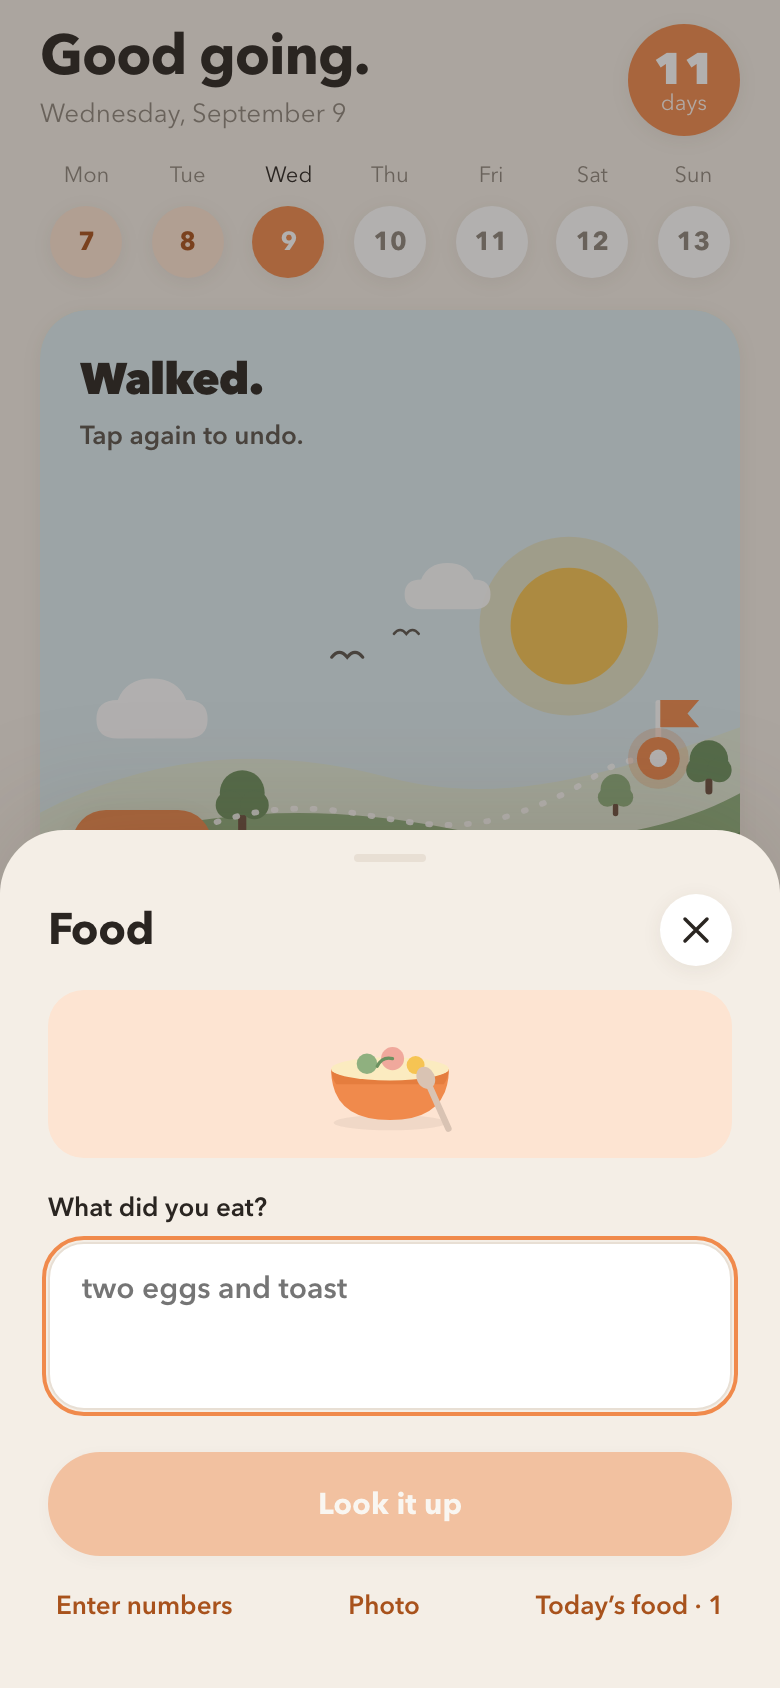
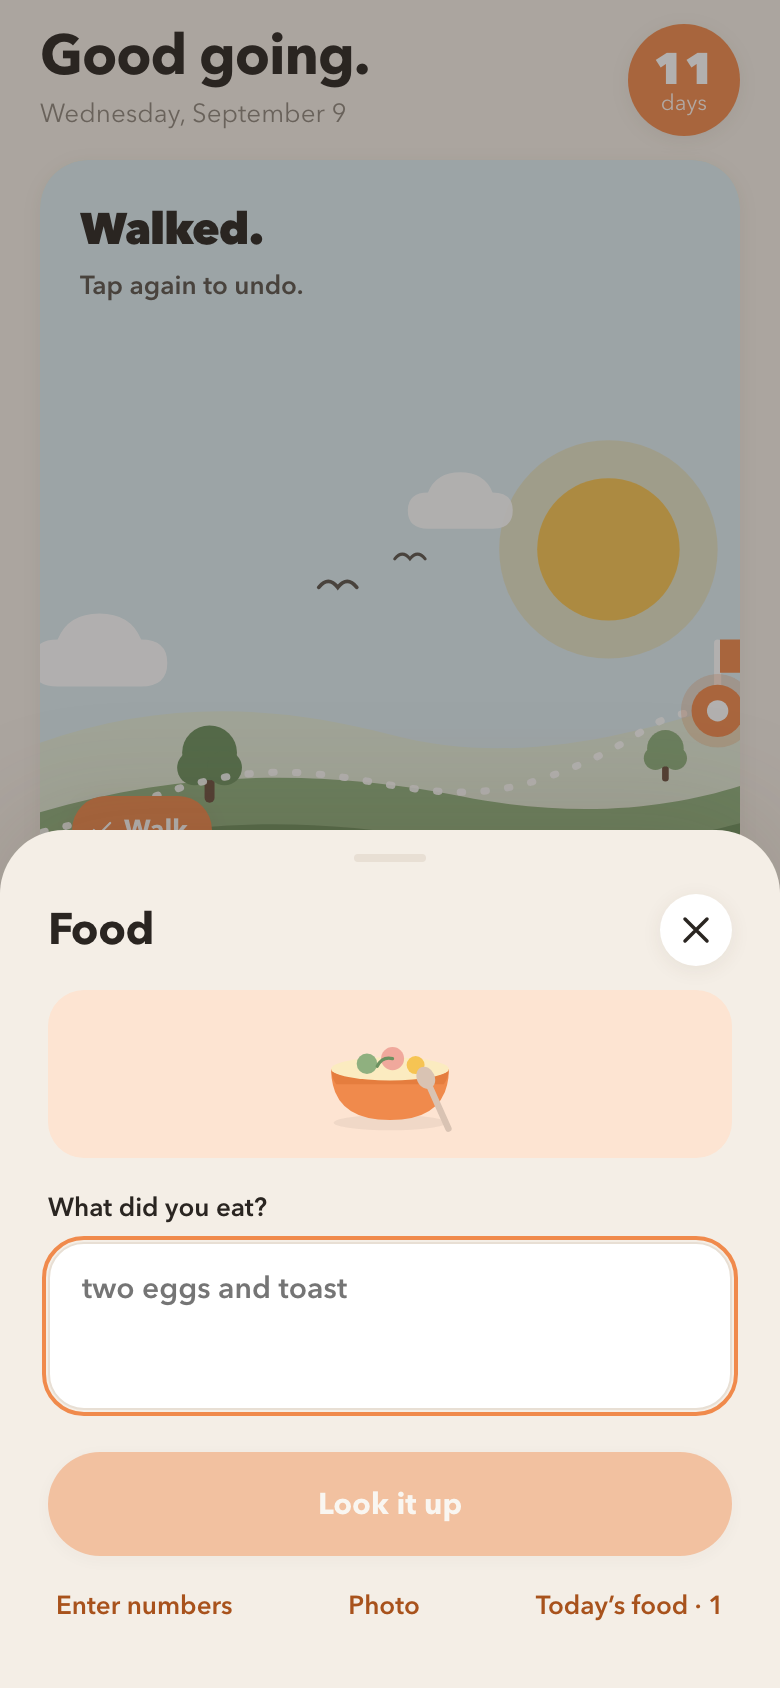
Remove the week strip from Today; backfill stays reachable from Progress
The hero grows into the space. The browser check now opens a past day
from Progress, checks a habit and comes back to today. Records updated.

Claude-Session: https://claude.ai/code/session_012eUTZr7PRm5q6EK1oDXvWv

diff --git a/app/tokens.css b/app/tokens.css
@@ -1,1 +1,1 @@
-:root{--c-ground:#f4eee6;--c-ground2:#ede5db;--c-card:#ffffff;--c-cardTint:#fbf7f2;--c-line:#e8dfd4;--c-ink:#2a2521;--c-ink2:#5b544d;--c-muted:#8d857b;--c-accent:#f08a4c;--c-accentDeep:#d9702f;--c-accentSoft:#fde4d2;--c-accentInk:#a8521c;--c-sage:#8fb07f;--c-sageDeep:#6c9160;--c-sageSoft:#e3ecd9;--c-sky:#8ec5d6;--c-skySoft:#dcecf1;--c-skyDeep:#5e9fb4;--c-butter:#f6c453;--c-butterSoft:#fbebc0;--c-rose:#f0a89c;--c-roseSoft:#f9e0da;--c-lilac:#b9aee0;--c-lilacSoft:#e9e4f4;--c-cocoa:#6b4f3f;--c-cocoaSoft:#d9c3b3;--c-night:#2f3550;--c-nightSoft:#8a90b3;--c-shadow:rgba(84,60,36,.08);--c-shadowDeep:rgba(84,60,36,.16);--c-scrim:rgba(42,37,33,.36);--r-sm:12px;--r-md:18px;--r-lg:24px;--r-xl:32px;--r-pill:999px;--s-0:0px;--s-1:4px;--s-2:8px;--s-3:12px;--s-4:16px;--s-5:20px;--s-6:24px;--s-7:32px;--s-8:40px;--s-9:56px;--t-xs:11px;--t-sm:13px;--t-md:15px;--t-lg:17px;--t-xl:22px;--t-xxl:28px;--t-hero:64px;--ls-tight:-.03em;--ls-snug:-.02em;--ls-normal:-.01em;--sh-card:0 2px 10px rgba(84,60,36,.08);--sh-float:0 10px 28px rgba(84,60,36,.16);--sh-sheet:0 -8px 60px rgba(84,60,36,.16);--z-hairline:1px;--z-bw:2px;--z-ring:3px;--z-dot:6px;--z-meter:8px;--z-handle:36px;--z-icon:22px;--z-minus:32px;--z-cell:36px;--z-tap:44px;--z-disc:56px;--z-add:56px;--z-tile:64px;--z-nav:64px;--z-glass:76px;--z-bowl:84px;--z-bars:112px;--z-pair:184px;--z-hero:300px;--z-heroShort:200px;--z-spark:100px;--z-preview:50dvh;--z-shell:440px;--z-shellMax:960px;--z-sheet:90dvh;--font:ui-rounded,'SF Pro Rounded','Avenir Next','Nunito','Segoe UI',system-ui,sans-serif}
+:root{--c-ground:#f4eee6;--c-ground2:#ede5db;--c-card:#ffffff;--c-cardTint:#fbf7f2;--c-line:#e8dfd4;--c-ink:#2a2521;--c-ink2:#5b544d;--c-muted:#8d857b;--c-accent:#f08a4c;--c-accentDeep:#d9702f;--c-accentSoft:#fde4d2;--c-accentInk:#a8521c;--c-sage:#8fb07f;--c-sageDeep:#6c9160;--c-sageSoft:#e3ecd9;--c-sky:#8ec5d6;--c-skySoft:#dcecf1;--c-skyDeep:#5e9fb4;--c-butter:#f6c453;--c-butterSoft:#fbebc0;--c-rose:#f0a89c;--c-roseSoft:#f9e0da;--c-lilac:#b9aee0;--c-lilacSoft:#e9e4f4;--c-cocoa:#6b4f3f;--c-cocoaSoft:#d9c3b3;--c-night:#2f3550;--c-nightSoft:#8a90b3;--c-shadow:rgba(84,60,36,.08);--c-shadowDeep:rgba(84,60,36,.16);--c-scrim:rgba(42,37,33,.36);--r-sm:12px;--r-md:18px;--r-lg:24px;--r-xl:32px;--r-pill:999px;--s-0:0px;--s-1:4px;--s-2:8px;--s-3:12px;--s-4:16px;--s-5:20px;--s-6:24px;--s-7:32px;--s-8:40px;--s-9:56px;--t-xs:11px;--t-sm:13px;--t-md:15px;--t-lg:17px;--t-xl:22px;--t-xxl:28px;--t-hero:64px;--ls-tight:-.03em;--ls-snug:-.02em;--ls-normal:-.01em;--sh-card:0 2px 10px rgba(84,60,36,.08);--sh-float:0 10px 28px rgba(84,60,36,.16);--sh-sheet:0 -8px 60px rgba(84,60,36,.16);--z-hairline:1px;--z-bw:2px;--z-ring:3px;--z-dot:6px;--z-meter:8px;--z-handle:36px;--z-icon:22px;--z-minus:32px;--z-cell:36px;--z-tap:44px;--z-disc:56px;--z-add:56px;--z-tile:64px;--z-nav:64px;--z-glass:76px;--z-bowl:84px;--z-bars:112px;--z-pair:184px;--z-hero:368px;--z-heroShort:200px;--z-spark:100px;--z-preview:50dvh;--z-shell:440px;--z-shellMax:960px;--z-sheet:90dvh;--font:ui-rounded,'SF Pro Rounded','Avenir Next','Nunito','Segoe UI',system-ui,sans-serif}

diff --git a/app/globals.css b/app/globals.css
@@ -10,7 +10,6 @@ h1,h2,h3,p{margin:0}h1{font-size:var(--t-xxl);font-weight:700;line-height:1.1;le
 .streak-badge{display:flex;flex-direction:column;align-items:center;justify-content:center;width:var(--z-disc);height:var(--z-disc);border-radius:50%;background:var(--c-accent);color:var(--c-card);line-height:1;flex-shrink:0;box-shadow:var(--sh-card)}.streak-badge strong{font-size:var(--t-xl);font-weight:800}.streak-badge span{font-size:var(--t-xs);opacity:.9}
 .zone-row{display:flex;align-items:center;justify-content:space-between;background:var(--c-accentSoft);color:var(--c-accentInk);padding:var(--s-2) var(--s-3);font-size:var(--t-sm);border-radius:var(--r-sm);flex-shrink:0;margin-top:var(--s-2)}
 .today-view{min-height:0;flex:1;display:flex;flex-direction:column;gap:var(--s-4);padding-top:var(--s-3)}
-.week-strip{display:grid;grid-template-columns:repeat(7,minmax(0,1fr));gap:var(--s-1);flex-shrink:0}.week-strip .day{display:flex;flex-direction:column;align-items:center;gap:var(--s-2);font-size:var(--t-xs);color:var(--c-muted)}.week-strip .day strong{display:grid;place-items:center;width:var(--z-cell);height:var(--z-cell);border-radius:50%;background:var(--c-card);color:var(--c-ink);font-size:var(--t-sm);font-weight:700;box-shadow:var(--sh-card);transition:background .25s,color .25s}.week-strip .day.is-kept strong{background:var(--c-accentSoft);color:var(--c-accentInk)}.week-strip .day.is-active strong{background:var(--c-accent);color:var(--c-card)}.week-strip .day.is-active{color:var(--c-ink)}.week-strip .day:disabled{opacity:1}.week-strip .day:disabled strong{color:var(--c-muted)}
 .hero{position:relative;flex:1;min-height:var(--z-heroShort);max-height:var(--z-hero);border-radius:var(--r-lg);overflow:hidden;text-align:left;box-shadow:var(--sh-card);background:var(--c-butterSoft);flex-shrink:1}.hero .scene{position:absolute;inset:0;width:100%;height:100%}
 .hero-copy{position:absolute;left:var(--s-5);top:var(--s-5);right:var(--s-5);display:flex;flex-direction:column;gap:var(--s-1);color:var(--c-ink)}.hero-copy strong{font-size:var(--t-xl);font-weight:800;letter-spacing:var(--ls-snug)}.hero-copy span{font-size:var(--t-sm);font-weight:600;color:var(--c-ink2)}.hero.is-complete .hero-copy strong{font-size:var(--t-xxl)}
 .hero-tag{position:absolute;left:var(--s-4);bottom:var(--s-4);display:inline-flex;align-items:center;gap:var(--s-1);background:var(--c-card);color:var(--c-ink);border-radius:var(--r-pill);padding:var(--s-2) var(--s-3) var(--s-2) var(--s-2);font-size:var(--t-sm);font-weight:700;box-shadow:var(--sh-card)}.hero-tag .mark{width:var(--s-5);height:var(--s-5)}.hero.is-done .hero-tag{background:var(--c-accent);color:var(--c-card)}

diff --git a/components/App.tsx b/components/App.tsx
@@ -39,13 +39,11 @@ export default function App(){
  const yesterday=state.days[addDays(today,-1)];const stumbled=!selected&&count===0&&!!yesterday&&!isKept(yesterday)&&addDays(today,-1)>=profile.startDay;
  const complete=count===habits.length;
  const headline=selected?'Past day':day.rest?'Rest day.':complete?'Every one.':count>=5?'Nearly there.':count>0?'Good going.':stumbled?'A new day.':morning?'Good morning.':hour<17?'Good afternoon.':'Good evening.';
- const week=Array.from({length:7},(_,i)=>addDays(weekStart(dayKey),i));
  const rests=restsLeft(state,dayKey);
  return <main className="app-shell">
   <header className="topbar"><div className="topbar-copy"><h1>{tab==='today'?headline:tab==='week'?'Progress':tab==='trends'?'Trends':'You'}</h1><p className="date">{tab==='week'?`Since ${new Intl.DateTimeFormat('en',{month:'long',day:'numeric',timeZone:'UTC'}).format(new Date(profile.startDay+'T12:00:00Z'))}`:dateLabel}</p></div>{showWeight&&<button className="chip" onClick={()=>setModal('weight')}><Mark name="scale"/>Weigh in</button>}{tab!=='week'&&<button className="streak-badge" onClick={()=>setTab('week')} aria-label={`${streak.current} day streak`}><strong>{streak.current}</strong><span>day{streak.current===1?'':'s'}</span></button>}</header>
   {state.clock&&state.clock.zone!==todayZone()&&<button className="zone-row" onClick={()=>setModal('zone')}>Your timezone changed. Keep your day in step<Icon name="arrow" size={16}/></button>}
   {tab==='today'?<section className="today-view">
-   <div className="week-strip" role="group" aria-label="This week">{week.map((d,i)=>{const kept=isKept(state.days[d]);const future=d>today;return <button key={d} disabled={future} className={`day ${d===dayKey?'is-active':''} ${kept?'is-kept':''}`} aria-pressed={d===dayKey} aria-label={`${weekdays[i]} ${Number(d.slice(-2))}${kept?', kept':''}`} onClick={()=>setSelected(d===today?null:d)}><span>{weekdays[i]}</span><strong>{Number(d.slice(-2))}</strong></button>;})}</div>
    <button className={`hero ${done.walk?'is-done':''} ${pulse.walk?'moving':''} ${complete?'is-complete':''}`} aria-label="Walk" aria-pressed={done.walk} onClick={()=>toggle('walk')}>
     <Hills phase={day.rest?'night':phase} walked={done.walk} celebrate={complete&&!selected}/>
     <span className="hero-copy"><strong>{complete&&!selected?'Every one.':day.rest?'Resting today.':done.walk?'Walked.':'A walk today.'}</strong><span>{complete&&!selected?`All ${habits.length} habits, all done.`:day.rest?'The streak stays.':done.walk?'Tap again to undo.':'Tap when you’re back.'}</span></span>

diff --git a/tests/e2e/v3.spec.ts b/tests/e2e/v3.spec.ts
@@ -33,11 +33,10 @@ test('nothing transient appears and nothing shifts on a habit tap, a pour, a mea
  expect(churn.removed.filter(n=>!n.startsWith('DIALOG')),JSON.stringify(churn)).toEqual([]);
  await writeFile(`evidence/v3/transient-check-${test.info().project.name}.json`,JSON.stringify({rectsUnchanged:true,statusOrAlertNodes:0,addedOutsideHeroAndSheet:churn.added,removedOutsideHeroAndSheet:churn.removed},null,2));
 });
-test('the week strip opens a past day for backfill and comes back to today',async({page})=>{
- await open(page,seed(10));const today=localDate(new Date(),'America/Los_Angeles');const yesterday=addDays(today,-1);
- const strip=page.getByRole('group',{name:'This week'});
- const target=strip.getByRole('button',{pressed:false}).filter({hasNot:page.locator('[disabled]')}).first();
- if(await strip.getByRole('button',{pressed:false}).filter({hasText:String(Number(yesterday.slice(-2)))}).count()){await strip.getByRole('button',{pressed:false}).filter({hasText:String(Number(yesterday.slice(-2)))}).first().click();}else await target.click();
+test('backfill is reachable from Progress: pick a past day, open it, check a habit, come back to today',async({page})=>{
+ await open(page,seed(10));const today=localDate(new Date(),'America/Los_Angeles');const past=addDays(today,-3);
+ await expect(page.getByRole('group',{name:'This week'})).toHaveCount(0);
+ await page.getByRole('button',{name:'Progress',exact:true}).click();await page.getByLabel('Open any past day').fill(past);await page.getByRole('button',{name:'Backfill this day'}).click();
  await expect(page.getByRole('heading',{name:'Past day'})).toBeVisible();await expect(page.getByRole('button',{name:'Back to today'})).toBeVisible();
  await page.getByRole('button',{name:'Workout',exact:true}).click();await expect(page.getByRole('button',{name:'Workout',exact:true})).toHaveAttribute('aria-pressed','true');
  await page.getByRole('button',{name:'Back to today'}).click();await expect(page.getByRole('heading',{name:'Past day'})).toHaveCount(0);await expect(page.getByRole('button',{name:'Workout',exact:true})).toHaveAttribute('aria-pressed','false');

diff --git a/lib/tokens.ts b/lib/tokens.ts
@@ -19,7 +19,7 @@ export const text={xs:'11px',sm:'13px',md:'15px',lg:'17px',xl:'22px',xxl:'28px',
 export const track={tight:'-.03em',snug:'-.02em',normal:'-.01em'} as const;
 export const shadow={card:`0 2px 10px ${color.shadow}`,float:`0 10px 28px ${color.shadowDeep}`,sheet:`0 -8px 60px ${color.shadowDeep}`} as const;
 export const font={sans:"ui-rounded,'SF Pro Rounded','Avenir Next','Nunito','Segoe UI',system-ui,sans-serif"} as const;
-export const size={hairline:'1px',bw:'2px',ring:'3px',dot:'6px',meter:'8px',handle:'36px',icon:'22px',minus:'32px',cell:'36px',tap:'44px',disc:'56px',add:'56px',tile:'64px',nav:'64px',glass:'76px',bowl:'84px',bars:'112px',pair:'184px',hero:'300px',heroShort:'200px',spark:'100px',preview:'50dvh',shell:'440px',shellMax:'960px',sheet:'90dvh'} as const;
+export const size={hairline:'1px',bw:'2px',ring:'3px',dot:'6px',meter:'8px',handle:'36px',icon:'22px',minus:'32px',cell:'36px',tap:'44px',disc:'56px',add:'56px',tile:'64px',nav:'64px',glass:'76px',bowl:'84px',bars:'112px',pair:'184px',hero:'368px',heroShort:'200px',spark:'100px',preview:'50dvh',shell:'440px',shellMax:'960px',sheet:'90dvh'} as const;
 export function cssVariables(){
  const lines:string[]=[];
  for(const [k,v] of Object.entries(color))lines.push(`--c-${k}:${v}`);

diff --git a/public/sw.js b/public/sw.js
@@ -1,4 +1,4 @@
-const VERSION='flaccid75-shell-6887c0a08b40';
+const VERSION='flaccid75-shell-3651f573f280';
 self.addEventListener('install',event=>{event.waitUntil(caches.open(VERSION).then(async cache=>{await cache.addAll(['/','/manifest.webmanifest','/icon-192.png','/icon-512.png','/apple-touch-icon.png','/icon.svg','/icon-maskable.png','/splash-1170x2532.png']);const response=await cache.match('/');const html=await response.text();const assets=[...new Set([...html.matchAll(/(?:src|href)="([^" ]+\.(?:js|css)(?:\?[^" ]*)?)"/g)].map(m=>m[1]))].filter(x=>x.startsWith('/assets/'));await cache.addAll(assets);}));});
 self.addEventListener('activate',event=>{event.waitUntil((async()=>{for(const key of await caches.keys())if(key.startsWith('flaccid75-')&&key!==VERSION)await caches.delete(key);await self.clients.claim();})());});
 self.addEventListener('fetch',event=>{const request=event.request;const url=new URL(request.url);if(request.method!=='GET'||url.origin!==self.location.origin||url.pathname.startsWith('/api/'))return;

diff --git a/evidence/LEDGER.md b/evidence/LEDGER.md
@@ -12,7 +12,7 @@ Goal: `flaccid75-v3-rebrand.txt`. Acceptance for this version: [ACCEPTANCE-V3.md
 | One accent: apricot `#f08a4c`, between reference A's mustard and reference B's coral. Sage is the secondary. Everything else is cream, white and warm greys. | One strong accent used sparingly is the shared trait of both references. Apricot reads warm against both mustard and coral without copying either. |
 | Tokens live in `lib/tokens.ts`; `app/tokens.css` is generated from it and `scripts/token-scan.mjs` fails on any hex, rgb or px value outside the token files. Exempt by design and named in the scanner: SVG geometry in `components/Scenes.tsx` and `components/Icon.tsx`, `@keyframes` bodies (motion distances) and `@media` preludes (breakpoints). | "No one-off colors" has to be provable, not asserted. The exemptions are geometry and motion, not design values. |
 | The hero scene is also the walk. The marker slides along the dotted path to the flag when the walk is done. When all seven habits are done the same scene becomes the celebration: sun rays and falling petals, "Every one." in the card. | The reference homes lead with one large illustrated card. Making it the walk keeps the gamification without a second track element, and making it the celebration removes the only remaining overlay. |
-| The week strip returns to Today as a filled-circle strip. Tapping a past day selects it for backfill; tapping today comes back. | Version 2 removed a decorative week strip. Reference A's week strip is the signature of its home screen, and this one carries meaning: kept days are tinted sage, the active day is the accent circle, and it replaces the old "Back to today" flow. |
+| The week strip is not on Today. Michael asked for its removal after the rounds; backfill stays reachable from Progress (pick a day, "Backfill this day"), and the hero grows into the space. | Version 2 removed a week strip from Today and the owner confirmed that decision for version 3. The blind rounds that included the strip are recorded as judged; the deployed screen after this change was not re-judged. |
 | Workout, abs, floss and rest are round icon chips with labels, in the manner of reference B's chip row. Rest is the fourth chip: it opens the confirmation sheet and shows "Resting" when used. | Four chips fit one row and read at a glance. The old footer line for rest is gone. |
 | Water has a small minus in the card's corner: one tap removes 250 ml, no dialog, disabled at zero. | Defect fix from the goal. |
 | Every toast, undo popup and sync notice is gone. Storage or sync problems show as a persistent line at the top of the You screen. Meal removal and correction happen in the food list, in place. | Nothing may appear and disappear over the interface. The `v3` browser check watches the DOM for five seconds after habit taps, a pour, a meal and a removal and asserts nothing outside the hero and the sheet is removed, no status or alert nodes exist and no layout rect moved. |

diff --git a/README.md b/README.md
@@ -8,7 +8,7 @@ The passphrase stays in the owner's private installation note, outside this repo
 
 - The mascot is retired. Warmth now comes from hand-authored flat vector scenes, a warm cream ground, white floating cards, one apricot accent and a sage secondary.
 - Every color, radius, space and type size is a token in `lib/tokens.ts`; `npm run scan` fails on any one-off value and on any leftover reference to the retired character.
-- The home screen: a week strip with the active day as a filled circle, a hero scene that is also the walk (the marker walks the path to the flag), round habit chips, and the water and food cards. The progress screen: one large streak number, a chart of thick rounded bars with today in the accent, the calendar and the day detail.
+- The home screen: a hero scene that is also the walk (the marker walks the path to the flag), round habit chips, and the water and food cards. The progress screen: one large streak number, a chart of thick rounded bars with today in the accent, the calendar and the day detail.
 - Water goes down by one tap on the small minus. Nothing transient exists: no toast, snackbar, banner or popup. State changes are shown by the state itself, and the day-complete celebration is the hero scene, not an overlay.
 - The icon, maskable icon, apple-touch icon and splash carry the new brand and are regenerated by `npm run art`.
 

diff --git a/evidence/ACCEPTANCE-V3.md b/evidence/ACCEPTANCE-V3.md
@@ -20,4 +20,6 @@ Live: https://flaccid75-preview.vercel.app (production alias; passphrase unchang
 | Lint, types, unit, integration, e2e and build all pass | **Lint, types, unit, scans, build and Chromium e2e pass.** Integration needs a direct Postgres connection, which the sandbox denies; it is unchanged from version 2 and runnable with `npm run test:integration`. WebKit e2e not run here. | [check-v3.txt](check-v3.txt), [v3/e2e-chromium.txt](v3/e2e-chromium.txt) |
 | Committed in clean waves, pushed to main, deployed to production, live URL works | **Done.** Three commits on `main`, production deployment aliased to the live URL, gate and CSRF checks pass against it, served icons hash-match the repository, and the live home and progress screens are captured. | [LEDGER.md](LEDGER.md#version-3-deployment--2026-09-09), [deployment-check.json](deployment-check.json), `v3/live/` |
 
+After the rounds, the week strip was removed from Today at Michael's request; backfill is reached from Progress (`tests/e2e/v3.spec.ts` "backfill is reachable from Progress"). The winning rounds were judged with the strip present; the screen without it has not been re-judged.
+
 Still unfinished and still true: physical iPhone install, real Safari behaviour and real-device timing; WebKit checks in this sandbox; the Neon credential exposed in version 1 tool output has not been rotated.
